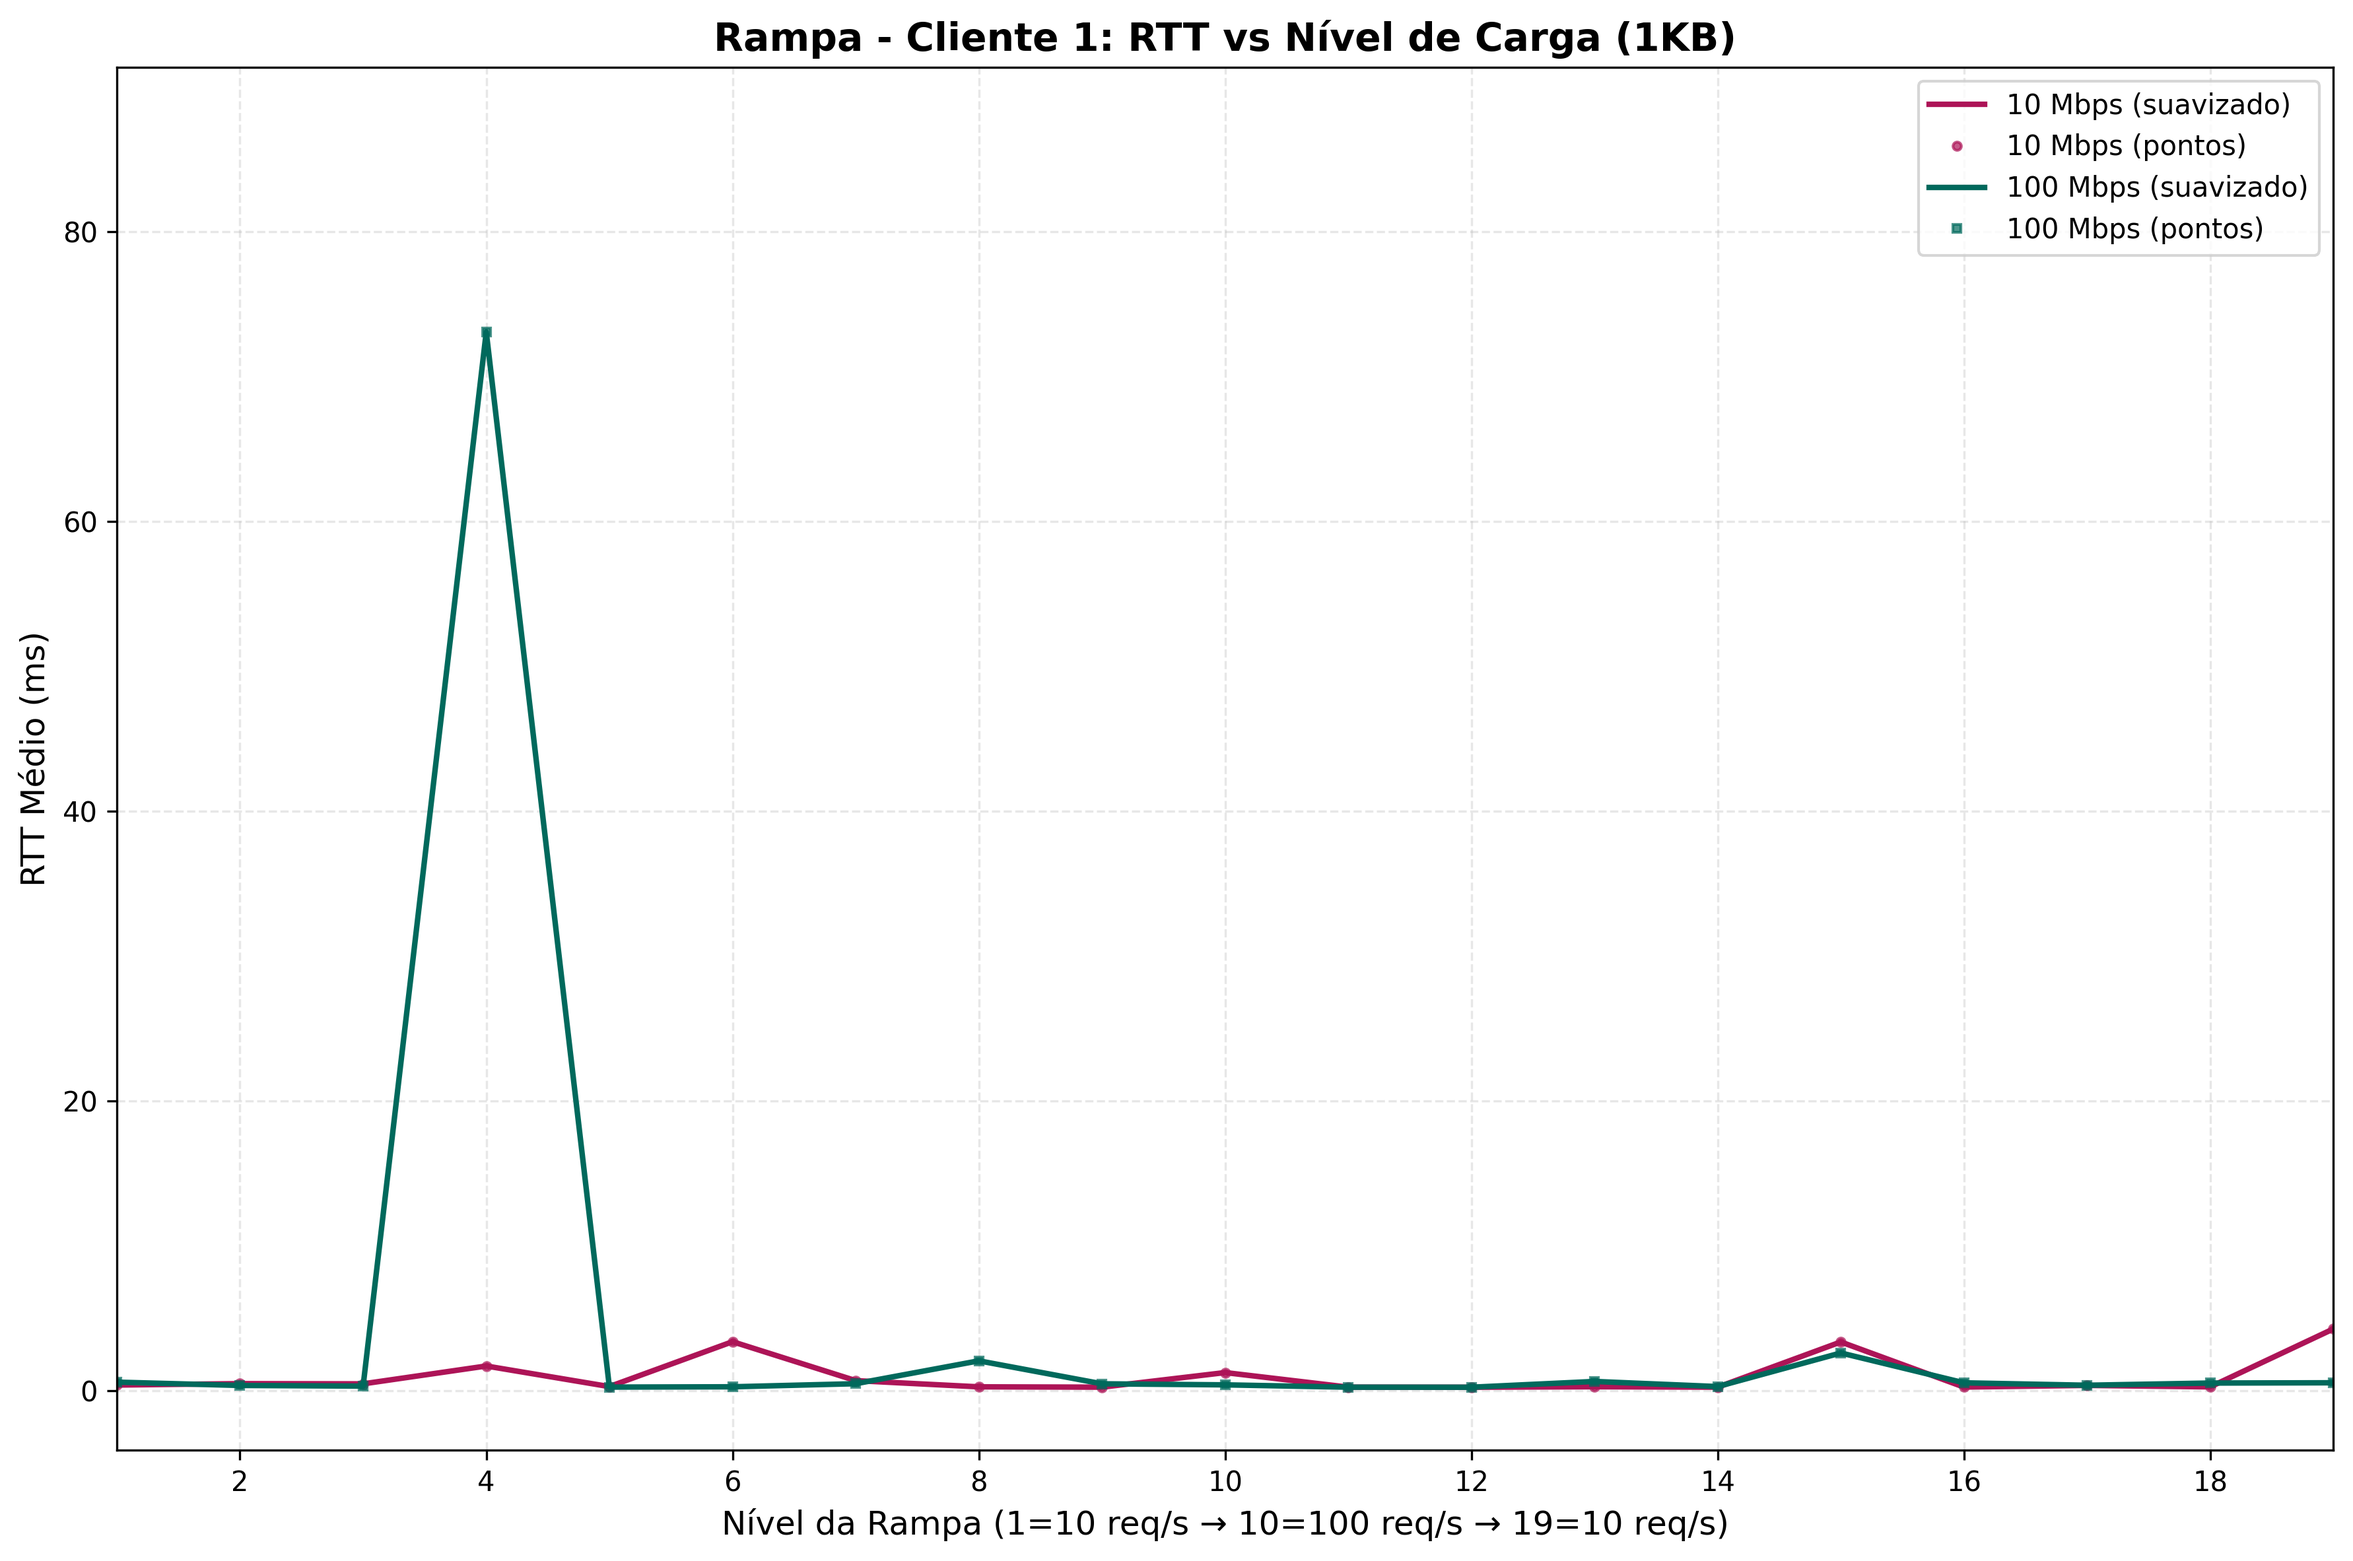
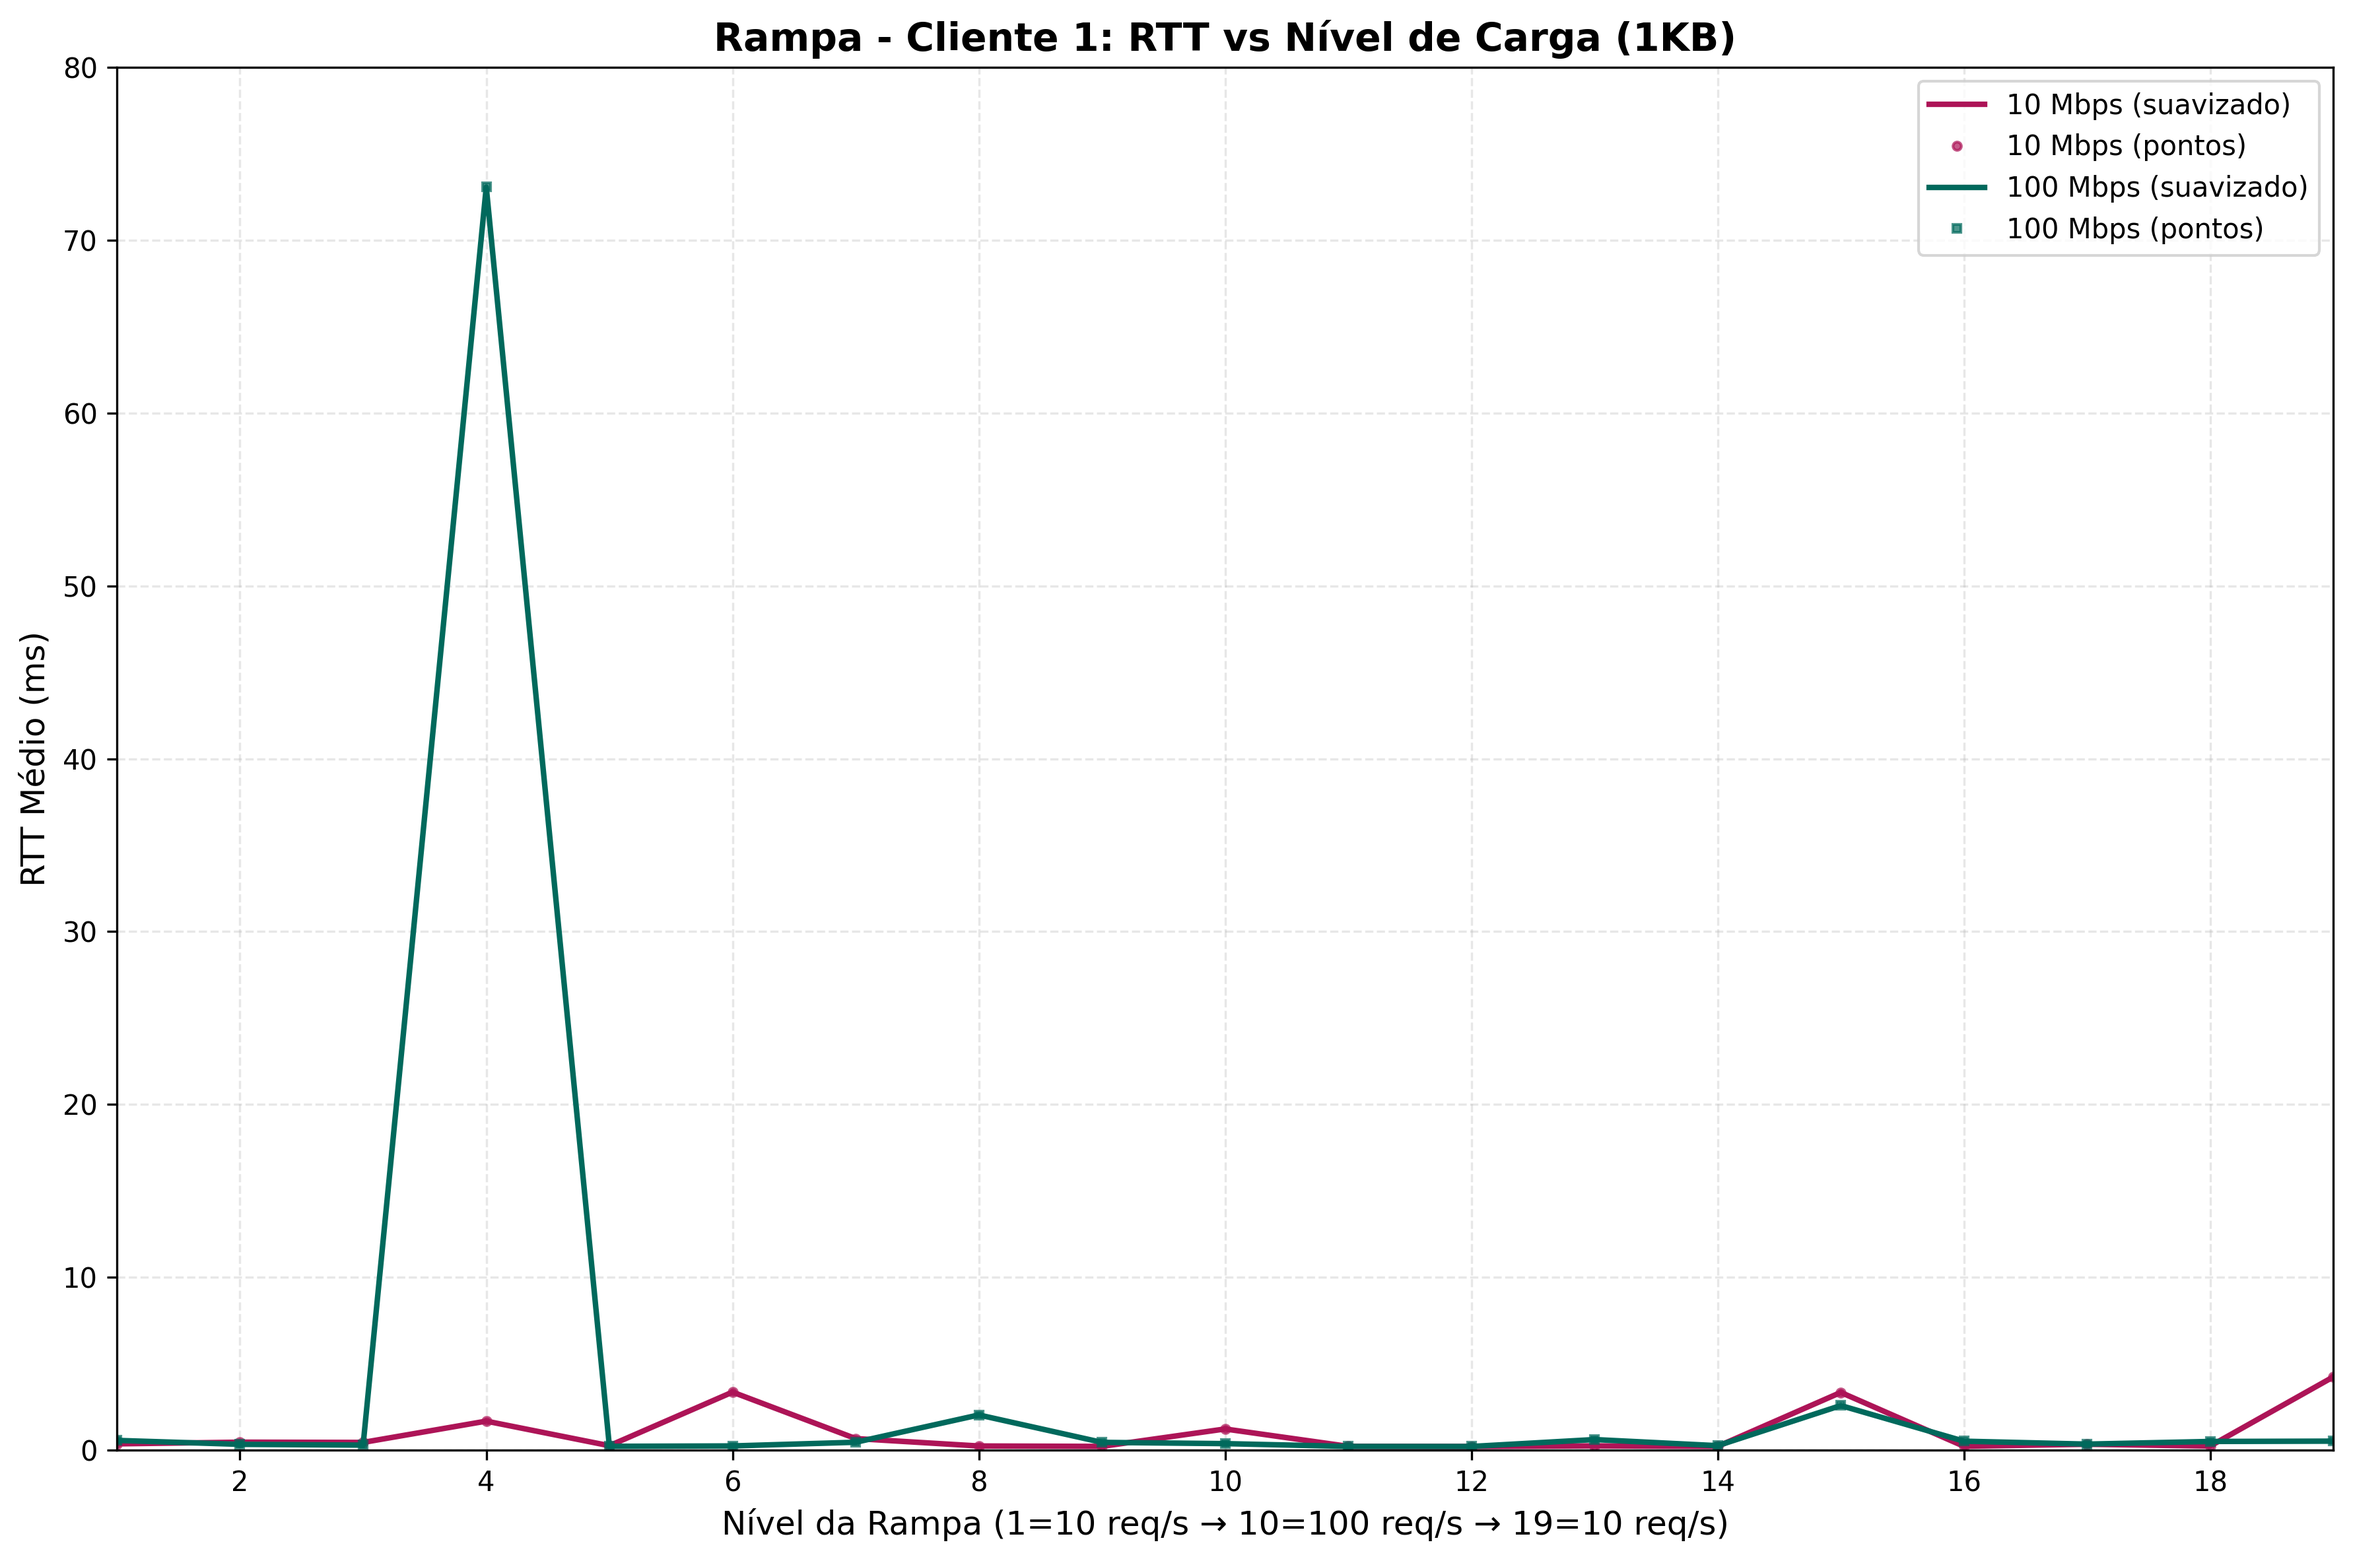
Adjust Y-axis limits for loss and jitter comparisons in network performance graphs

Changed region(s): [[0.0311, 0.8025, 0.9966, 0.926], [0.1869, 0.1235, 0.2492, 0.5865], [0.1557, 0.463, 0.1869, 0.5865]]

diff --git a/plot.py b/plot.py
@@ -286,7 +286,7 @@ try:
             ax.plot(df_100['tamanho_bytes'], df_100['taxa_perda_agregada_%'], 's-', 
                     color='#1565C0', linewidth=2, markersize=5, label='Rede 100 Mbps')
             ax.set_xscale('log', base=2)
-            ax.set_ylim(0, 100)
+            ax.set_ylim(0, 50)  # Alterado de 0, 60 para 0, 50
             ax.set_title('Comparação de Taxa de Perda: 10 Mbps vs 100 Mbps', 
                         fontsize=14, fontweight='bold')
             ax.set_xlabel('Tamanho do Payload (bytes)', fontsize=12)
@@ -311,7 +311,7 @@ try:
                     ax.plot(df_100['tamanho_bytes'], df_100[perda_col], 's-', 
                             color='#1565C0', linewidth=2, markersize=5, label='Cliente 1 - 100 Mbps')
                     ax.set_xscale('log', base=2)
-                    ax.set_ylim(0, 100)
+                    ax.set_ylim(0, 50)  # Alterado de 0, 60 para 0, 50
                     ax.set_title('Comparação de Taxa de Perda: 10 Mbps vs 100 Mbps (Cliente 1)', 
                                 fontsize=14, fontweight='bold')
                     ax.set_xlabel('Tamanho do Payload (bytes)', fontsize=12)
@@ -346,6 +346,7 @@ try:
             ax.plot(df_100['tamanho_bytes'], df_100['jitter_agregado_ms'], 's', 
                     color='#4CAF50', markersize=3, alpha=0.7)
             ax.set_xscale('log', base=2)
+            ax.set_ylim(0, 65)  # Alterado de 0, 100 para 0, 65
             ax.set_title('Comparação de Jitter Médio: 10 Mbps vs 100 Mbps', 
                         fontsize=14, fontweight='bold')
             ax.set_xlabel('Tamanho do Payload (bytes)', fontsize=12)
@@ -374,6 +375,7 @@ try:
                     ax.plot(df_100['tamanho_bytes'], df_100[jitter_col], 's', 
                             color='#4CAF50', markersize=3, alpha=0.7)
                     ax.set_xscale('log', base=2)
+                    ax.set_ylim(0, 65)  # Alterado de 0, 100 para 0, 65
                     ax.set_title('Comparação de Jitter Médio: 10 Mbps vs 100 Mbps (Cliente 1)', 
                                 fontsize=14, fontweight='bold')
                     ax.set_xlabel('Tamanho do Payload (bytes)', fontsize=12)
@@ -408,6 +410,7 @@ try:
             ax.plot(df_100['tamanho_bytes'], df_100['p99_agregado_ms'], '--', 
                     color='#2196F3', linewidth=2, label='100 Mbps - P99')
             ax.set_xscale('log', base=2)
+            ax.set_ylim(0, 250)  # Adicionado limite do eixo Y
             ax.set_title('Comparação de Percentis P95 e P99', 
                         fontsize=14, fontweight='bold')
             ax.set_xlabel('Tamanho do Payload (bytes)', fontsize=12)
@@ -434,6 +437,7 @@ try:
                 ax.plot(df_100['tamanho_bytes'], df_100['p99_ms'], '--', 
                         color='#2196F3', linewidth=2, label='Cliente 1 100 Mbps - P99')
                 ax.set_xscale('log', base=2)
+                ax.set_ylim(0, 250)  # Adicionado limite do eixo Y
                 ax.set_title('Comparação de Percentis P95 e P99 (Cliente 1)', 
                             fontsize=14, fontweight='bold')
                 ax.set_xlabel('Tamanho do Payload (bytes)', fontsize=12)
@@ -551,6 +555,7 @@ try:
                         fmt='s-', color='#2E7D32', linewidth=2, markersize=4, 
                         capsize=3, label='100 Mbps (IC 98%)')
             ax.set_xscale('log', base=2)
+            ax.set_ylim(0, 130)  # Alterado de 0, 200 para 0, 130
             ax.set_title('Cliente 1: Comparação entre Redes 10 e 100 Mbps', 
                         fontsize=14, fontweight='bold')
             ax.set_xlabel('Tamanho do Payload (bytes)', fontsize=12)
@@ -623,6 +628,7 @@ try:
                 ax.plot(df_100_1k[nivel_col], df_100_1k[rtt_col], 's', 
                         color='#00695C', markersize=3, alpha=0.7, label='100 Mbps (pontos)')
                 ax.set_xlim(1, 19)
+                ax.set_ylim(0, 80)  # Adicionado limite do eixo Y
                 ax.set_title('Rampa - Cliente 1: RTT vs Nível de Carga (1KB)', 
                             fontsize=14, fontweight='bold')
                 ax.set_xlabel('Nível da Rampa (1=10 req/s → 10=100 req/s → 19=10 req/s)', 
@@ -652,32 +658,99 @@ try:
             perda_col = 'taxa_perda_%' if 'taxa_perda_%' in df_10.columns else (
                 df_10.columns[13] if len(df_10.columns) > 13 else df_10.columns[-1])
             
-            df_10_1k = df_10[df_10['tamanho_bytes'] == 1024].copy()
-            df_100_1k = df_100[df_100['tamanho_bytes'] == 1024].copy()
-            df_10_64k = df_10[df_10['tamanho_bytes'] == 65507].copy()
-            df_100_64k = df_100[df_100['tamanho_bytes'] == 65507].copy()
-            fig, ax = plt.subplots(figsize=(12, 8))
+            df_10_1k = df_10[df_10['tamanho_bytes'] == 1024].copy() if 'tamanho_bytes' in df_10.columns else df_10.copy()
+            df_100_1k = df_100[df_100['tamanho_bytes'] == 1024].copy() if 'tamanho_bytes' in df_100.columns else df_100.copy()
+            df_10_64k = df_10[df_10['tamanho_bytes'] == 65507].copy() if 'tamanho_bytes' in df_10.columns else pd.DataFrame()
+            df_100_64k = df_100[df_100['tamanho_bytes'] == 65507].copy() if 'tamanho_bytes' in df_100.columns else pd.DataFrame()
             
-            if not df_10_1k.empty:
-                ax.plot(df_10_1k[nivel_col], df_10_1k[perda_col], 'o-', 
-                        color='#E53935', linewidth=2, markersize=4, label='10 Mbps - 1KB')
-            if not df_100_1k.empty:
-                ax.plot(df_100_1k[nivel_col], df_100_1k[perda_col], 's-', 
-                        color='#43A047', linewidth=2, markersize=4, label='100 Mbps - 1KB')
-            if not df_10_64k.empty:
-                ax.plot(df_10_64k[nivel_col], df_10_64k[perda_col], 'o--', 
-                        color='#FF8A80', linewidth=2, markersize=4, label='10 Mbps - 64KB')
-            if not df_100_64k.empty:
-                ax.plot(df_100_64k[nivel_col], df_100_64k[perda_col], 's--', 
-                        color='#A5D6A7', linewidth=2, markersize=4, label='100 Mbps - 64KB')
-            ax.set_xlim(1, 19)
-            ax.set_ylim(0, 100)
-            ax.set_title('Taxa de Perda vs Nível de Rampa - Cliente 1', 
-                        fontsize=14, fontweight='bold')
-            ax.set_xlabel('Nível da Rampa', fontsize=12)
-            ax.set_ylabel('Taxa de Perda (%)', fontsize=12)
-            ax.grid(True, alpha=0.3, linestyle='--')
-            ax.legend()
+            fig, (ax1, ax2) = plt.subplots(2, 1, figsize=(14, 10))
+            fig.suptitle('Análise de Taxa de Perda vs Nível de Rampa - Cliente 1', 
+                        fontsize=16, fontweight='bold')
+            
+            if not df_10_1k.empty and nivel_col in df_10_1k.columns and perda_col in df_10_1k.columns:
+                ax1.fill_between(df_10_1k[nivel_col], 0, df_10_1k[perda_col], 
+                               alpha=0.3, color='#E53935', label='10 Mbps - 1KB (área)')
+                ax1.plot(df_10_1k[nivel_col], df_10_1k[perda_col], 'o-', 
+                        color='#E53935', linewidth=3, markersize=8, 
+                        markeredgecolor='white', markeredgewidth=2,
+                        label='10 Mbps - 1KB')
+                
+            if not df_100_1k.empty and nivel_col in df_100_1k.columns and perda_col in df_100_1k.columns:
+                ax1.fill_between(df_100_1k[nivel_col], 0, df_100_1k[perda_col], 
+                               alpha=0.3, color='#43A047', label='100 Mbps - 1KB (área)')
+                ax1.plot(df_100_1k[nivel_col], df_100_1k[perda_col], 's-', 
+                        color='#43A047', linewidth=3, markersize=8,
+                        markeredgecolor='white', markeredgewidth=2,
+                        label='100 Mbps - 1KB')
+            
+            ax1.set_xlim(1, 19)
+            ax1.set_ylim(-0.1, 2.5)
+            ax1.axhline(y=0, color='black', linestyle='-', linewidth=1, alpha=0.8)
+            ax1.set_title('Taxa de Perda - Payloads 1KB', fontsize=14, fontweight='bold')
+            ax1.set_xlabel('Nível da Rampa', fontsize=12)
+            ax1.set_ylabel('Taxa de Perda (%)', fontsize=12)
+            ax1.grid(True, alpha=0.3, linestyle='--')
+            ax1.set_xticks(range(1, 20, 2))
+            ax1.set_yticks([0, 0.5, 1.0, 1.5, 2.0])
+            
+            ax1.text(10, 2.3, 'Rampa: 10→100→10 req/s', ha='center', fontsize=10, 
+                    bbox=dict(boxstyle='round,pad=0.3', facecolor='lightblue', alpha=0.7))
+            
+            if ax1.get_lines():
+                ax1.legend(loc='upper right', frameon=True, fancybox=True, shadow=True)
+            
+            x_pos = np.arange(1, 19)
+            bar_width = 0.35
+            
+            if not df_10_1k.empty and nivel_col in df_10_1k.columns and perda_col in df_10_1k.columns:
+                y_10 = [df_10_1k[df_10_1k[nivel_col] == x][perda_col].iloc[0] if len(df_10_1k[df_10_1k[nivel_col] == x]) > 0 else 0 for x in x_pos]
+                bars1 = ax2.bar(x_pos - bar_width/2, y_10, bar_width, 
+                               color='#E53935', alpha=0.8, label='10 Mbps - 1KB',
+                               edgecolor='white', linewidth=1)
+                
+                for i, (bar, val) in enumerate(zip(bars1, y_10)):
+                    if val > 0.01:
+                        ax2.text(bar.get_x() + bar.get_width()/2, bar.get_height() + 0.02, 
+                               f'{val:.2f}%', ha='center', va='bottom', fontsize=8)
+                
+            if not df_100_1k.empty and nivel_col in df_100_1k.columns and perda_col in df_100_1k.columns:
+                y_100 = [df_100_1k[df_100_1k[nivel_col] == x][perda_col].iloc[0] if len(df_100_1k[df_100_1k[nivel_col] == x]) > 0 else 0 for x in x_pos]
+                bars2 = ax2.bar(x_pos + bar_width/2, y_100, bar_width, 
+                               color='#43A047', alpha=0.8, label='100 Mbps - 1KB',
+                               edgecolor='white', linewidth=1)
+                
+                for i, (bar, val) in enumerate(zip(bars2, y_100)):
+                    if val > 0.01:
+                        ax2.text(bar.get_x() + bar.get_width()/2, bar.get_height() + 0.02, 
+                               f'{val:.2f}%', ha='center', va='bottom', fontsize=8)
+            
+            all_zero = True
+            if not df_10_1k.empty and perda_col in df_10_1k.columns:
+                if df_10_1k[perda_col].max() > 0:
+                    all_zero = False
+            if not df_100_1k.empty and perda_col in df_100_1k.columns:
+                if df_100_1k[perda_col].max() > 0:
+                    all_zero = False
+            
+            if all_zero:
+                ax2.text(10, 1, 'Taxa de Perda = 0% em todos os níveis\n(Excelente qualidade da rede)', 
+                        ha='center', va='center', fontsize=12, 
+                        bbox=dict(boxstyle='round,pad=0.5', facecolor='lightgreen', alpha=0.8))
+            
+            ax2.set_xlim(0, 19)
+            ax2.set_ylim(0, 2.5)
+            ax2.axhline(y=0, color='black', linestyle='-', linewidth=1, alpha=0.8)
+            ax2.set_title('Taxa de Perda - Visualização em Barras', fontsize=14, fontweight='bold')
+            ax2.set_xlabel('Nível da Rampa', fontsize=12)
+            ax2.set_ylabel('Taxa de Perda (%)', fontsize=12)
+            ax2.grid(True, alpha=0.3, linestyle='--', axis='y')
+            ax2.set_xticks(x_pos)
+            ax2.set_xticklabels([str(x) for x in x_pos])
+            ax2.set_yticks([0, 0.5, 1.0, 1.5, 2.0])
+            
+            if ax2.get_legend_handles_labels()[0]:
+                ax2.legend(loc='upper right', frameon=True, fancybox=True, shadow=True)
+            
             plt.tight_layout()
             plt.savefig('graficos/11_ramp_perda_vs_nivel.png', dpi=300, bbox_inches='tight')
             plt.close()
